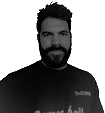
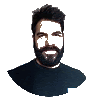
add last profile version, I swear! srrs

diff --git a/README.md b/README.md
@@ -1,5 +1,5 @@
 <div align="center">
-    <img src="perfil_Github.png" alt="just a small picture of a bearded guy!">
+    <img src="perfil_github.png" alt="just a small picture of a bearded guy!">
     <h1>:computer: Hello, folks! my name is Iury :headphones:</h1>
 </div>
 
